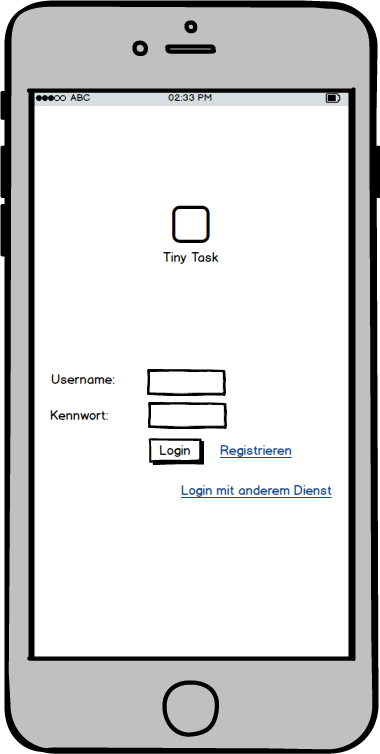
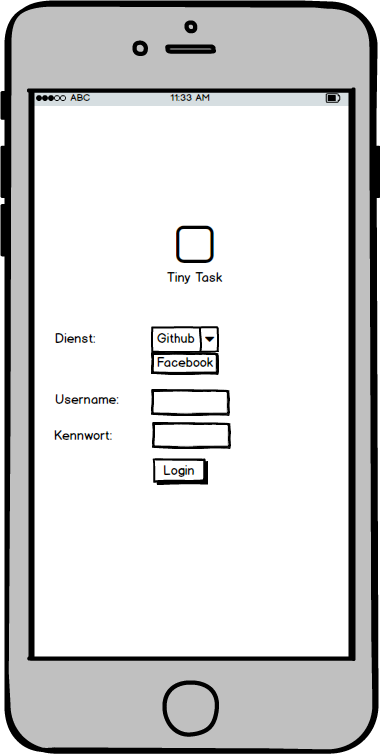
TinyTask Mockups Registrierung und Alternativ entfernt

diff --git a/presentation/slides/02-TinyTask/02-Mockups.md b/presentation/slides/02-TinyTask/02-Mockups.md
@@ -9,73 +9,61 @@ chapter: TinyTask
   <img src="./images/login.png">
 </figure>
 
-# 2\. Login Registrieren
-
-<figure id="login_reg">
-  <img src="./images/login_registrieren.png">
-</figure>
-
-# 3\. Login Dienst
-
-<figure id="login_alt">
-  <img src="./images/login_alternativ.png">
-</figure>
-
-# 4\. Start
+# 2\. Start
 
 <figure id="start">
   <img src="./images/Start.png">
 </figure>
 
-# 5\. Bewerber aussuchen
+# 3\. Bewerber aussuchen
 
 <figure id="bewerb_suchen">
   <img src="./images/Bewerber_aussuchen.png">
 </figure>
 
-# 6\. Suchen
+# 4\. Suchen
 
 <figure id="suchen">
   <img src="./images/Suchen.png">
 </figure>
 
-# 7\. Erstellen
+# 5\. Erstellen
 
 <figure id="erstellen">
   <img src="./images/Erstellen.png">
 </figure>
 
-# 8\. Taskansicht Angenommen
+# 6\. Taskansicht Angenommen
 
 <figure id="taskansicht_angenommen">
   <img src="./images/Taskansicht_Angenommen.png">
 </figure>
 
-# 9\. Taskansicht Auftragnehmer
+# 7\. Taskansicht Auftragnehmer
 
 <figure id="taskansicht_AN">
   <img src="./images/Taskansicht_AN.png">
 </figure>
 
-# 10\. Profil
+# 8\. Profil
 
 <figure id="profil">
   <img src="./images/Profil.png">
 </figure>
 
-# 11\. Map
+# 9\. Map
 
 <figure id="map">
   <img src="./images/Map.png">
 </figure>
 
-# 12\. Taskende
+# 10\. Taskende
 
 <figure id="taskende">
   <img src="./images/Taskende.png">
 </figure>
 
-# 12\. Chat
+# 11\. Chat
 
 <figure id="chat">
   <img src="./images/Chat.png">
